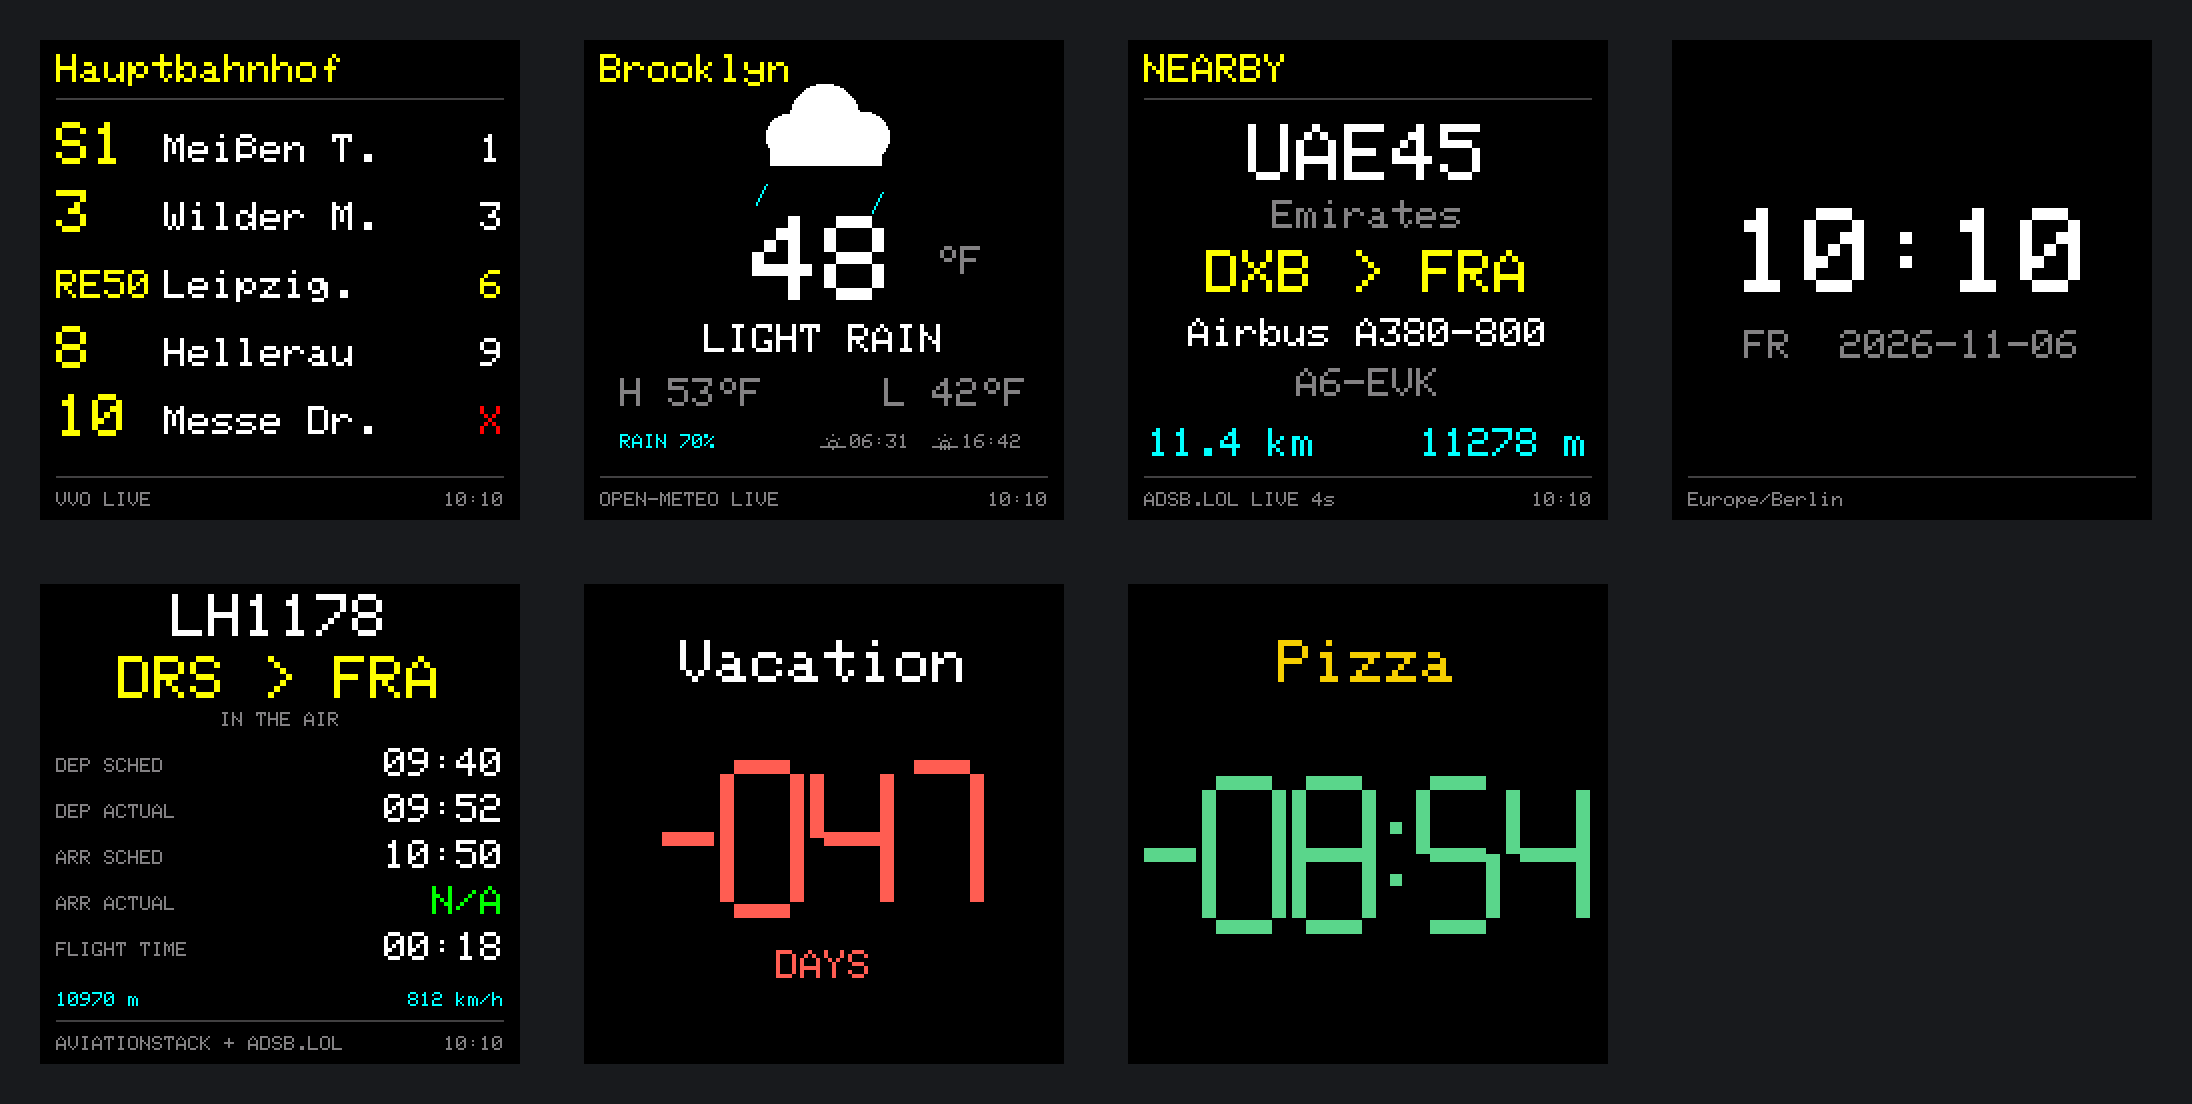
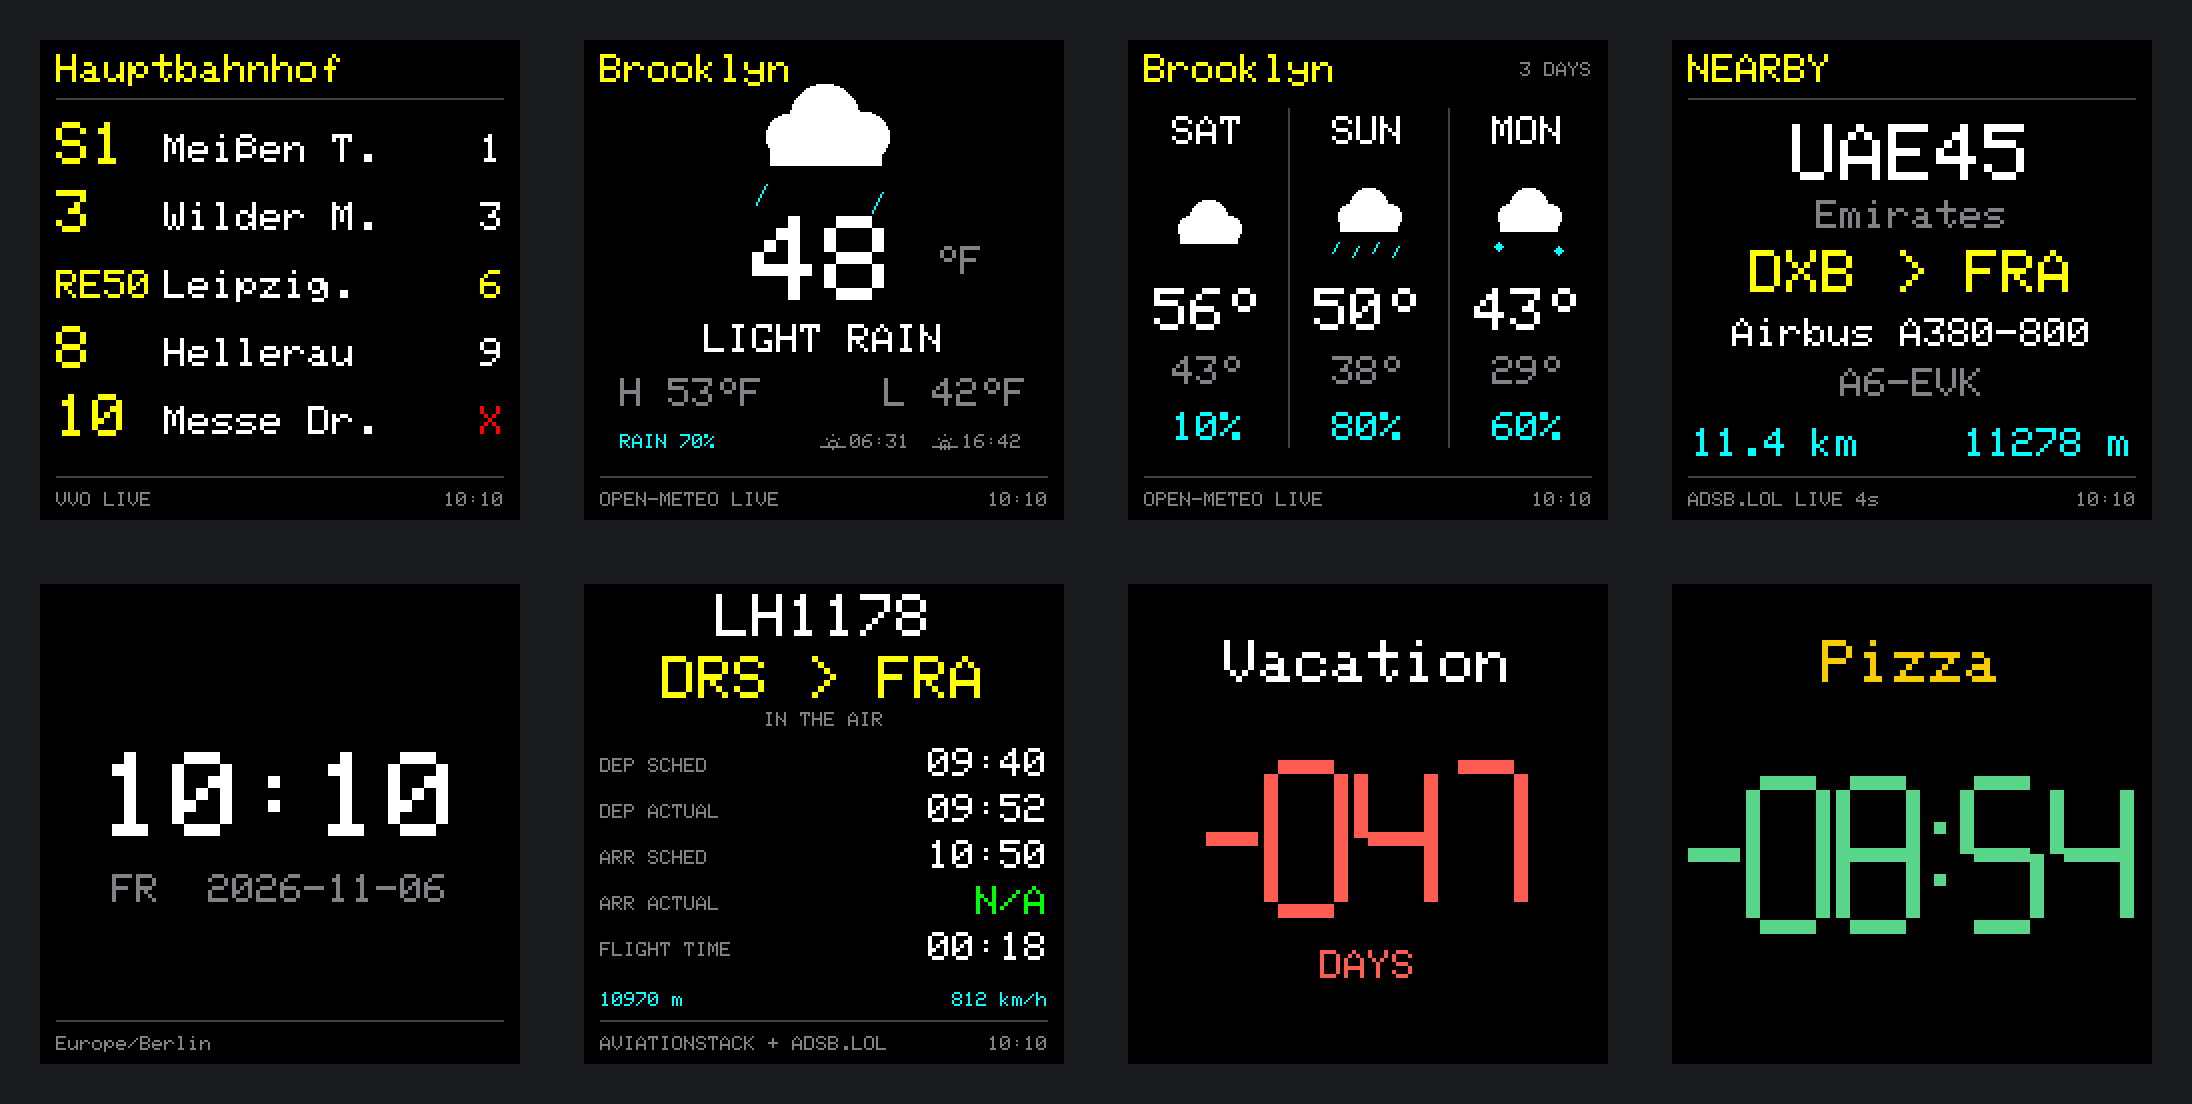
Doku v0.5.1-dev: Changelog, README-Galerie mit Vorhersage, Roadmap
- CHANGELOG: Vorhersage, aufgeräumtes Webinterface, Arbeitsspeicher
- README (DE/EN): Vorhersage in Funktionen und Galerie, Teststand
  v0.5.0 als bestätigt
- Screenshots neu erzeugt, Übersicht mit acht Ansichten
- ROADMAP: v0.5.1-Prüfungen; Variante "Wetter & Uhr" mit Meteocons
  und das zurückgestellte Titelbild unter "Ideen für später"

diff --git a/README.md b/README.md
@@ -25,7 +25,7 @@ Der Würfel zeigt im Wechsel oder dauerhaft:
 | Ansicht | Was du siehst |
 | --- | --- |
 | **Abfahrten** | Live-Abfahrten einer Haltestelle des Verkehrsverbunds Oberelbe (VVO): Linie, Ziel, Minuten, Verspätungen und Ausfälle; bis zu zehn Abfahrten auf zwei Seiten, Filter nach Verkehrsmittel |
-| **Wetter** | Aktuelle Temperatur, Wetterbild für Tag und Nacht, Höchst- und Tiefstwert, Regenwahrscheinlichkeit, Sonnenauf- und -untergang; °C oder °F |
+| **Wetter** | Aktuelle Temperatur, Wetterbild für Tag und Nacht, Höchst- und Tiefstwert, Regenwahrscheinlichkeit, Sonnenauf- und -untergang, im Wechsel eine 3-Tage-Vorhersage; °C oder °F |
 | **Flugradar** | Das nächste Flugzeug im gewählten Umkreis: Callsign, Airline, Route, Typ, Kennzeichen, Entfernung und Höhe |
 | **Uhr** | Uhrzeit und Datum mit wählbarer Zeitzone |
 | **Flug-Tracker** | Ein bestimmter Flug mit Plan- und Ist-Zeiten und Live-Höhe (eigener aviationstack-Schlüssel nötig) |
@@ -38,7 +38,7 @@ Dazu kommen Nachtmodus, Helligkeit ab 1 %, Ortssuche mit Karte, griechische und 
 | | | |
 | :---: | :---: | :---: |
 | <img src="docs/screens/abfahrten.png" width="260" alt="Abfahrten"><br><sub><b>Abfahrten</b> · Dresden Hauptbahnhof, mit Verspätung (gelb) und Ausfall (✕)</sub> | <img src="docs/screens/wetter.png" width="260" alt="Wetter"><br><sub><b>Wetter</b> · Brooklyn in °F</sub> | <img src="docs/screens/flugradar.png" width="260" alt="Flugradar"><br><sub><b>Flugradar</b> · Emirates A380 von Dubai nach Frankfurt</sub> |
-| <img src="docs/screens/flugtracker.png" width="260" alt="Flug-Tracker"><br><sub><b>Flug-Tracker</b> · ein Flug mit Plan- und Ist-Zeiten</sub> | <img src="docs/screens/uhr.png" width="260" alt="Uhr"><br><sub><b>Uhr</b> · mit Zeitzone</sub> | <img src="docs/screens/countdown-tage.png" width="260" alt="Countdown"><br><sub><b>Countdown</b> · in Tagen oder als Timer</sub> |
+| <img src="docs/screens/flugtracker.png" width="260" alt="Flug-Tracker"><br><sub><b>Flug-Tracker</b> · ein Flug mit Plan- und Ist-Zeiten</sub> | <img src="docs/screens/vorhersage.png" width="260" alt="3-Tage-Vorhersage"><br><sub><b>Vorhersage</b> · die nächsten drei Tage</sub> | <img src="docs/screens/countdown-tage.png" width="260" alt="Countdown"><br><sub><b>Countdown</b> · in Tagen oder als Timer</sub> |
 
 ## Entwicklungsstand: v0.5.1-dev
 
@@ -48,8 +48,8 @@ Dazu kommen Nachtmodus, Helligkeit ab 1 %, Ortssuche mit Karte, griechische und 
 | Flugradar über HTTP/1.1, Pausen bei abgelehnten Anfragen | ✅ auf Hardware bestätigt (v0.4.14.7) |
 | Radar nur bei sichtbarer Ansicht, Tagesbudget ohne Schlüssel | ✅ läuft auf Hardware (v0.4.14.8), Langzeitbeobachtung läuft |
 | Hintergrundbeleuchtung bei 1 % ohne Aufblitzen | ✅ deutlich besser (v0.4.14.6) |
-| Sprachumschaltung Deutsch/Englisch | ⏳ Hardwaretest offen |
-| Abgekürzte Fahrtziele, Ortsname weglassen | ⏳ Hardwaretest offen |
+| Sprachumschaltung Deutsch/Englisch, abgekürzte Fahrtziele | ✅ auf Hardware bestätigt (v0.5.0) |
+| 3-Tage-Vorhersage, aufgeräumtes Webinterface, „Jetzt anzeigen“ | ⏳ Hardwaretest offen |
 | Flug-Tracker mit eigenem aviationstack-Schlüssel | ⏳ nicht vollständig auf Hardware getestet |
 
 Alle Änderungen stehen in [`CHANGELOG.md`](CHANGELOG.md), offene Prüfungen in [`ROADMAP.md`](ROADMAP.md).

diff --git a/README.en.md b/README.en.md
@@ -25,7 +25,7 @@ The cube shows, in rotation or permanently:
 | View | What you see |
 | --- | --- |
 | **Departures** | Live departures of a stop of Verkehrsverbund Oberelbe (VVO, Dresden region): line, destination, minutes, delays and cancellations; up to ten departures on two pages, filter by mode of transport |
-| **Weather** | Current temperature, day/night weather icon, high and low, chance of rain, sunrise and sunset; °C or °F |
+| **Weather** | Current temperature, day/night weather icon, high and low, chance of rain, sunrise and sunset, alternating with a 3-day forecast; °C or °F |
 | **Flight radar** | The nearest aircraft within the chosen radius: callsign, airline, route, type, registration, distance and altitude |
 | **Clock** | Time and date with a selectable time zone |
 | **Flight tracker** | One specific flight with scheduled and actual times and live altitude (your own aviationstack key required) |
@@ -38,7 +38,7 @@ Plus night mode, brightness down to 1 %, place search with a map, Greek and Cyri
 | | | |
 | :---: | :---: | :---: |
 | <img src="docs/screens/en/abfahrten.png" width="260" alt="Departures"><br><sub><b>Departures</b> · Dresden Hauptbahnhof with a delay (yellow) and a cancellation (✕)</sub> | <img src="docs/screens/en/wetter.png" width="260" alt="Weather"><br><sub><b>Weather</b> · Brooklyn in °F</sub> | <img src="docs/screens/en/flugradar.png" width="260" alt="Flight radar"><br><sub><b>Flight radar</b> · Emirates A380 from Dubai to Frankfurt</sub> |
-| <img src="docs/screens/en/flugtracker.png" width="260" alt="Flight tracker"><br><sub><b>Flight tracker</b> · one flight with scheduled and actual times</sub> | <img src="docs/screens/en/uhr.png" width="260" alt="Clock"><br><sub><b>Clock</b> · with time zone</sub> | <img src="docs/screens/en/countdown-tage.png" width="260" alt="Countdown"><br><sub><b>Countdown</b> · in days or as a timer</sub> |
+| <img src="docs/screens/en/flugtracker.png" width="260" alt="Flight tracker"><br><sub><b>Flight tracker</b> · one flight with scheduled and actual times</sub> | <img src="docs/screens/en/vorhersage.png" width="260" alt="3-day forecast"><br><sub><b>Forecast</b> · the next three days</sub> | <img src="docs/screens/en/countdown-tage.png" width="260" alt="Countdown"><br><sub><b>Countdown</b> · in days or as a timer</sub> |
 
 ## Status: v0.5.1-dev
 
@@ -48,8 +48,8 @@ Plus night mode, brightness down to 1 %, place search with a map, Greek and Cyri
 | Flight radar over HTTP/1.1, pauses on rejected requests | ✅ confirmed on hardware (v0.4.14.7) |
 | Radar only while visible, daily budget without a key | ✅ running on hardware (v0.4.14.8), long-term observation ongoing |
 | Backlight at 1 % without flashes | ✅ much improved (v0.4.14.6) |
-| German/English language switch | ⏳ hardware test pending |
-| Abbreviated destinations, omitting the town name | ⏳ hardware test pending |
+| German/English language switch, abbreviated destinations | ✅ confirmed on hardware (v0.5.0) |
+| 3-day forecast, tidier web interface, “Show now” | ⏳ hardware test pending |
 | Flight tracker with your own aviationstack key | ⏳ not fully tested on hardware |
 
 All changes are listed in [`CHANGELOG.md`](CHANGELOG.md) (German), open checks in [`ROADMAP.md`](ROADMAP.md).

diff --git a/ROADMAP.md b/ROADMAP.md
@@ -4,7 +4,7 @@ Stand: 06.11.2026. Erledigtes steht in [`CHANGELOG.md`](CHANGELOG.md).
 
 ## Nächste Prüfungen auf dem Gerät
 
-- **v0.5.0-dev:** Sprachumschaltung (Display und Webinterface), abgekürzte Fahrtziele und Ortsname weglassen, Startbildschirm, Setup-WLAN „PixelStop-Setup“; Flash- und RAM-Belegung aus `build.log` notieren.
+- **v0.5.1-dev:** 3-Tage-Vorhersage (Seitenwechsel, Wochentage, Fahrenheit), „Jetzt anzeigen“, ungespeichert-Hinweis, Haltestelle neu wählen und Ortsnamen prüfen (z. B. S-Bahnhof Reick).
 - **Flugradar:** Langzeittest über mehrere Tage mit Rotation; Anfragezähler „adsb.lol heute“ beobachten. Budgetwerte (`src/RadarBudget.h`) anpassen, sobald adsb.lol genaue Zahlen nennt (Limit, Reset-Zeitpunkt, Zählung von Fehlern und Routen). Freien Speicher während der Abfrage im Blick behalten (ca. 5 KB bei 4-KB-TLS-Puffer).
 - **Wetter:** Exception 29 beim Programmwechsel ist seit den Speicherkorrekturen nicht wieder aufgetreten; im Langzeittest weiter beobachten.
 - **Zeitzone, Sommerzeit, Nachtmodus:** gezielt prüfen, spätestens bei der Zeitumstellung Ende März.
@@ -16,8 +16,8 @@ Stand: 06.11.2026. Erledigtes steht in [`CHANGELOG.md`](CHANGELOG.md).
 
 | Version | Inhalt |
 | --- | --- |
-| **v0.5.0** | PixelStop, Deutsch/Englisch, Fahrtziele, neue README – nach dem Hardwaretest taggen |
-| **v0.5.1** | Webinterface aufräumen: Rotation einzeilig, Reiterleiste in einer Zeile, Hinweis auf ungespeicherte Änderungen, Erklärtexte einklappbar, Countdowns kompakter, Koordinaten unter „Erweitert“; Knopf „Jetzt anzeigen“ je Programm; 3-Tage-Vorhersage |
+| **v0.5.0** | PixelStop, Deutsch/Englisch, Fahrtziele, neue README – auf Hardware bestätigt |
+| **v0.5.1** | Webinterface aufgeräumt, „Jetzt anzeigen“, 3-Tage-Vorhersage, Ort der Haltestelle aus der VVO-Suche, Texte im Flash – in Arbeit, nach dem Hardwaretest taggen |
 | **v0.5.2** | Warnungen: Bevölkerungsschutz (NINA) und DWD-Wetterwarnungen, einzeln aktivierbar, regional gefiltert, mehrere nacheinander; optional Unterbrechung der Rotation |
 | **v0.6.0** | Abfahrten über Anbieter: VVO, Transitous (deutschlandweit inkl. Bahn), danach weitere Verbünde; Haltestellensuche im Browser |
 | **v0.7.0** | Optionaler moderner Anzeigestil mit echten Schriften und neuem Layout, vorher als Entwurf mit `tools/render_screens.py` |
@@ -28,6 +28,8 @@ Stand: 06.11.2026. Erledigtes steht in [`CHANGELOG.md`](CHANGELOG.md).
 - **Fotos** (einzelne JPGs aus dem Dateisystem), eventuell eigene Wetterbilder.
 - **Eigene Ersetzungen für Fahrtziele** im Webinterface.
 - **Englische Diagnosetexte.**
+- **Variante „Wetter & Uhr“** aus demselben Code: ohne Abfahrten, Radar und Tracker, dafür eine moderne Wetterkachel mit Meteocons (MIT) losgelöst vom Pixel-Design.
+- **Titelbild für README und GitHub-Vorschau** (KI-Motiv war technisch nicht stimmig, vorerst zurückgestellt).
 - **ESP32-Umbau** des SmallTV mit vorhandenem Display als Experiment (Pinbelegung, Stromversorgung, Platz, Portierung).
 
 ## Bewusst verworfen

diff --git a/CHANGELOG.md b/CHANGELOG.md
@@ -3,6 +3,9 @@
 ## v0.5.1-dev
 
 - **Ortsname bei Fahrtzielen:** Der Ort einer Haltestelle kommt jetzt aus der VVO-Suche und wird gespeichert. Bisher galt das erste Wort des Haltestellennamens als Ort; bei „S-Bahnhof Reick“ wurde so „S-Bahnhof“ als Ort angenommen, „Dresden Flughafen“ blieb ungekürzt und der Titel lautete nur „Reick“. Ohne gespeicherten Ort gilt weiter Dresden. Wer die Haltestelle vor v0.5.1 gewählt hat, sucht sie einmal neu aus, damit auch Haltestellen außerhalb Dresdens den richtigen Ort bekommen.
+- **3-Tage-Vorhersage:** Die Wetteransicht wechselt alle 8 Sekunden zwischen heute und den nächsten drei Tagen (Wochentag, Symbol, Höchst-/Tiefstwert, Regen). Abschaltbar im Wetter-Reiter.
+- **Webinterface aufgeräumt:** Reiter in einer wischbaren Zeile, Rotation einzeilig mit Knopf ▶ „Jetzt anzeigen“, roter Punkt am Speichern-Knopf bei ungespeicherten Änderungen, Koordinaten und lange Hinweise eingeklappt, inaktive Countdowns eingeklappt, Links im Akzentgelb.
+- **Arbeitsspeicher:** etwa 3 KB fester Texte und Tabellen (Webserver-Antworten, Airline- und Flugzeugtypnamen, deutsche Wetterbezeichnungen) liegen jetzt im Flash.
 
 ## v0.5.0-dev
 
